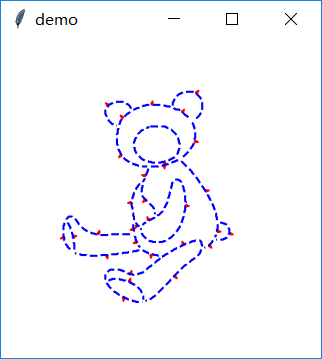
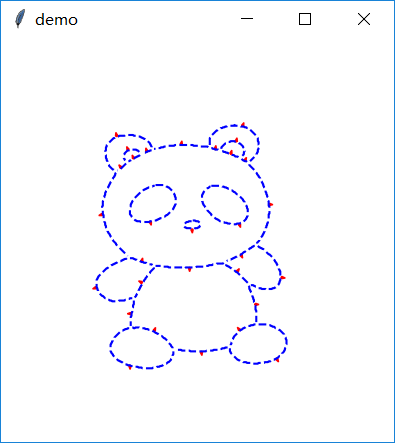
update

diff --git a/decompose.py b/decompose.py
@@ -162,23 +162,21 @@ def score(I):
 def detect_ring(tree):
     vis = []
     ring = []
-    def search(x, fa):
+    def search(x):
         vis.append(x)
         for y in tree[x]:
-            if y == fa:
-                continue
             if y in vis:
                 ring.append(y)
                 while len(vis) > 0 and vis[-1] != y:
                     ring.append(vis.pop())
                 return True
             else:
-                if search(y, x):
+                if search(y):
                     return True
         vis.pop()
         return False
     for i in range(len(tree)):
-        if search(i, -1):
+        if search(i):
             return ring
     return []
 
@@ -260,9 +258,9 @@ def fitness(arrows, out=False, show=False):
         for i in s:
             if len(belong[i]) != 2:
                 continue
-            k2 = belong[i][0] if belong[i][1] == k else belong[i][1]
             if arrows[i] == 2:
                 continue
+            k2 = belong[i][0] if belong[i][1] == k else belong[i][1]
             swap = is_component_stroke(i, k)
             if swap:
                 k, k2 = k2, k
@@ -280,6 +278,7 @@ def fitness(arrows, out=False, show=False):
                     tree[k].pop()
             if swap:
                 k, k2 = k2, k
+
 
     top_obj = [1 for _ in range(len(stroke_sets))]
     for k, s in enumerate(stroke_sets):
@@ -321,7 +320,7 @@ def fitness(arrows, out=False, show=False):
 def dfs(L, x):
     global best
     global opt_arrows
-    if x < len(L) - 1:
+    if x < len(L):
         arrows[L[x]] = 0
         dfs(L, x + 1)
         arrows[L[x]] = 1
@@ -404,7 +403,8 @@ global_score, score_per_region, to_modify = fitness(arrows)
 k = np.argmin(score_per_region)
 to_modify += stroke_sets[k]
 to_modify = list(set(to_modify))
-dfs(to_modify, 0)
+if len(to_modify) < 5:
+    dfs(to_modify, 0)
 arrows = opt_arrows
 show_arrows()
 

diff --git a/README.md b/README.md
@@ -11,11 +11,11 @@ a tool for shape component extraction in sketch
 - shapely
 
 ## How to use
-Here we take image `bear.png` as example to demonstrate how to use our tool.
+Here we take image `panda.png` as example to demonstrate how to use our tool.
 ```bash
-python decompose.py bear.png
+python decompose.py panda.png
 ```
-This command will load `bear.png` and execute program.  
+This command will load `panda.png` and execute program.  
 After loading image, which may take few minutes, you will see the following screen:  
 
 ![](demo.png)
@@ -34,6 +34,8 @@ You can do:
 - Press <kbd>Esc</kbd> to go back to initial screen.
 - Click an arrow to change its direction and then the result of decomposition.
 - Draw a approximate contour to select a shape component (with local arrows adjustment). Press <kbd>a</kbd> to finish drawing.
+
+![](demo.gif)
 
 
 ## License
